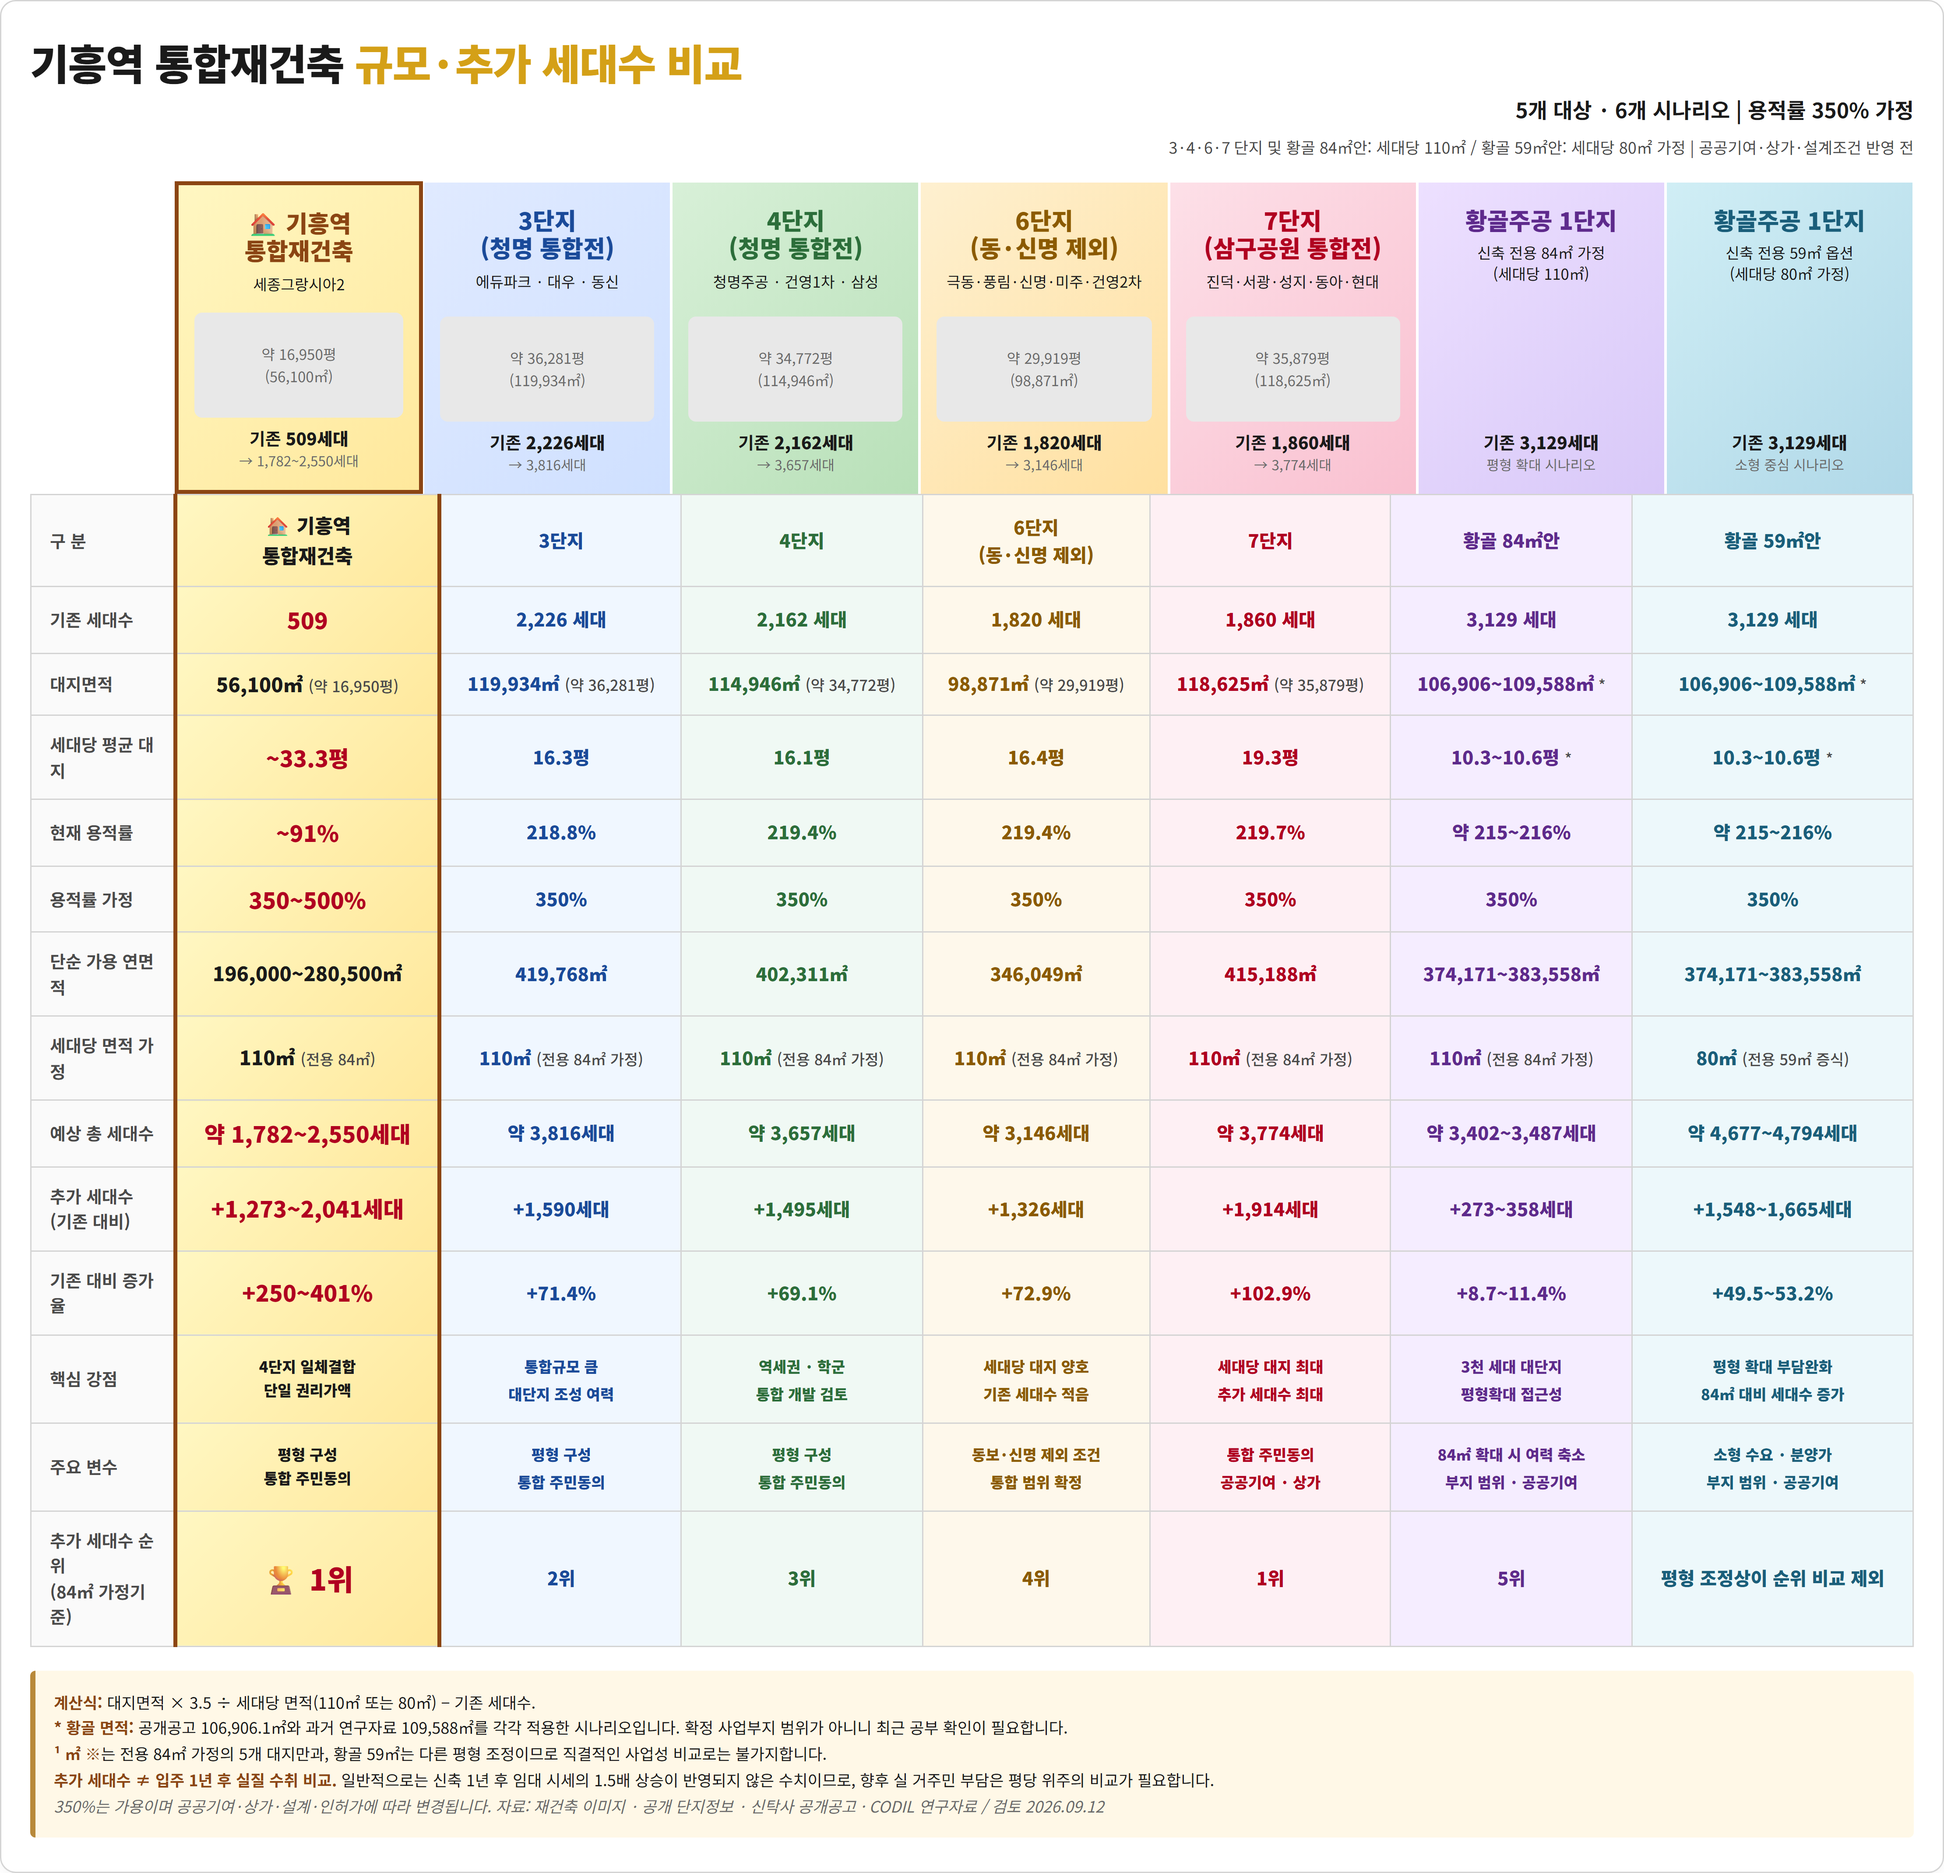
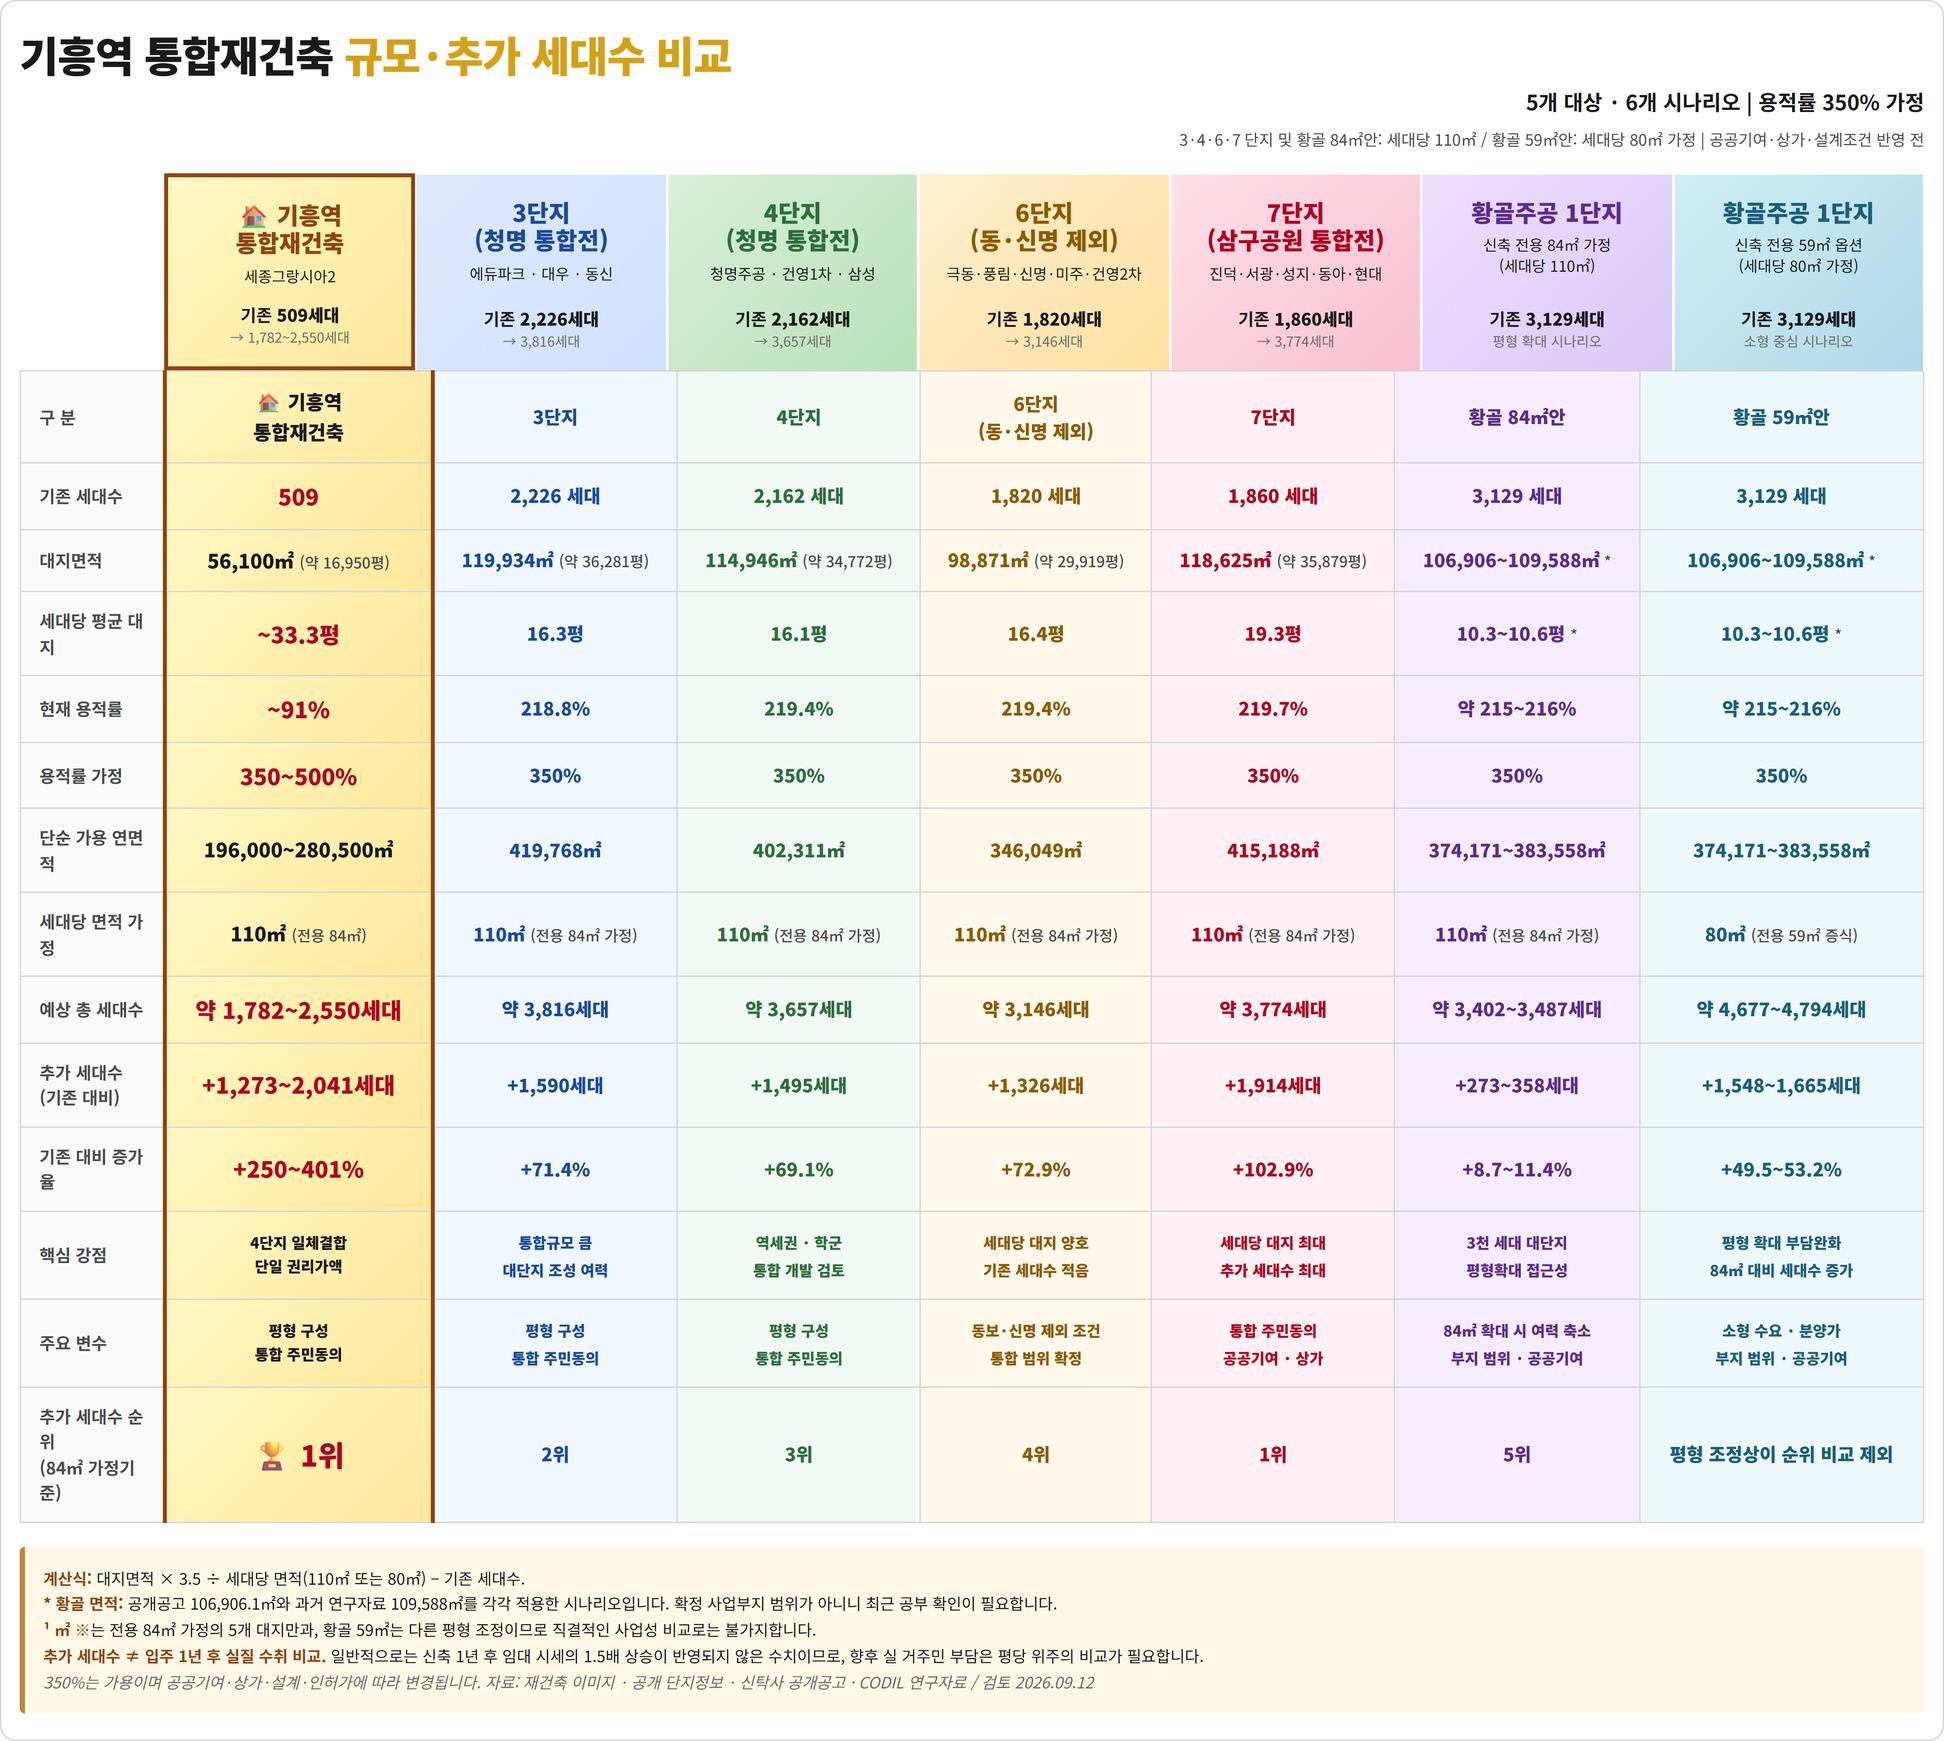
v87: 빈 이미지 placeholder 제거, 헤더 박스 좌우폭 균형

diff --git a/compare-image.html b/compare-image.html
@@ -16,7 +16,7 @@
   .compare-table-wrap {
     background: #fff;
     border-radius: 12px;
-    padding: 26px 22px;
+    padding: 20px 14px;
     border: 1px solid #d4d4d4;
     width: 1480px;
     box-shadow: 0 2px 8px rgba(0,0,0,0.04);
@@ -58,7 +58,7 @@
     border-bottom: 0;
     text-align: center;
     background: #fafafa;
-    min-height: 220px;
+    min-height: 110px;
     display: flex;
     flex-direction: column;
     justify-content: space-between;
@@ -208,7 +208,6 @@
         <div class="header-cell-detail">세종그랑시아2</div>
       </div>
       <div>
-        <div class="header-cell-image">약 16,950평<br>(56,100㎡)</div>
         <div class="header-cell-meta">기존 <strong>509세대</strong></div>
         <div class="header-cell-meta-sub">→ 1,782~2,550세대</div>
       </div>
@@ -219,7 +218,6 @@
         <div class="header-cell-detail">에듀파크 · 대우 · 동신</div>
       </div>
       <div>
-        <div class="header-cell-image">약 36,281평<br>(119,934㎡)</div>
         <div class="header-cell-meta">기존 <strong>2,226세대</strong></div>
         <div class="header-cell-meta-sub">→ 3,816세대</div>
       </div>
@@ -230,7 +228,6 @@
         <div class="header-cell-detail">청명주공 · 건영1차 · 삼성</div>
       </div>
       <div>
-        <div class="header-cell-image">약 34,772평<br>(114,946㎡)</div>
         <div class="header-cell-meta">기존 <strong>2,162세대</strong></div>
         <div class="header-cell-meta-sub">→ 3,657세대</div>
       </div>
@@ -241,7 +238,6 @@
         <div class="header-cell-detail">극동·풍림·신명·미주·건영2차</div>
       </div>
       <div>
-        <div class="header-cell-image">약 29,919평<br>(98,871㎡)</div>
         <div class="header-cell-meta">기존 <strong>1,820세대</strong></div>
         <div class="header-cell-meta-sub">→ 3,146세대</div>
       </div>
@@ -252,7 +248,6 @@
         <div class="header-cell-detail">진덕·서광·성지·동아·현대</div>
       </div>
       <div>
-        <div class="header-cell-image">약 35,879평<br>(118,625㎡)</div>
         <div class="header-cell-meta">기존 <strong>1,860세대</strong></div>
         <div class="header-cell-meta-sub">→ 3,774세대</div>
       </div>
